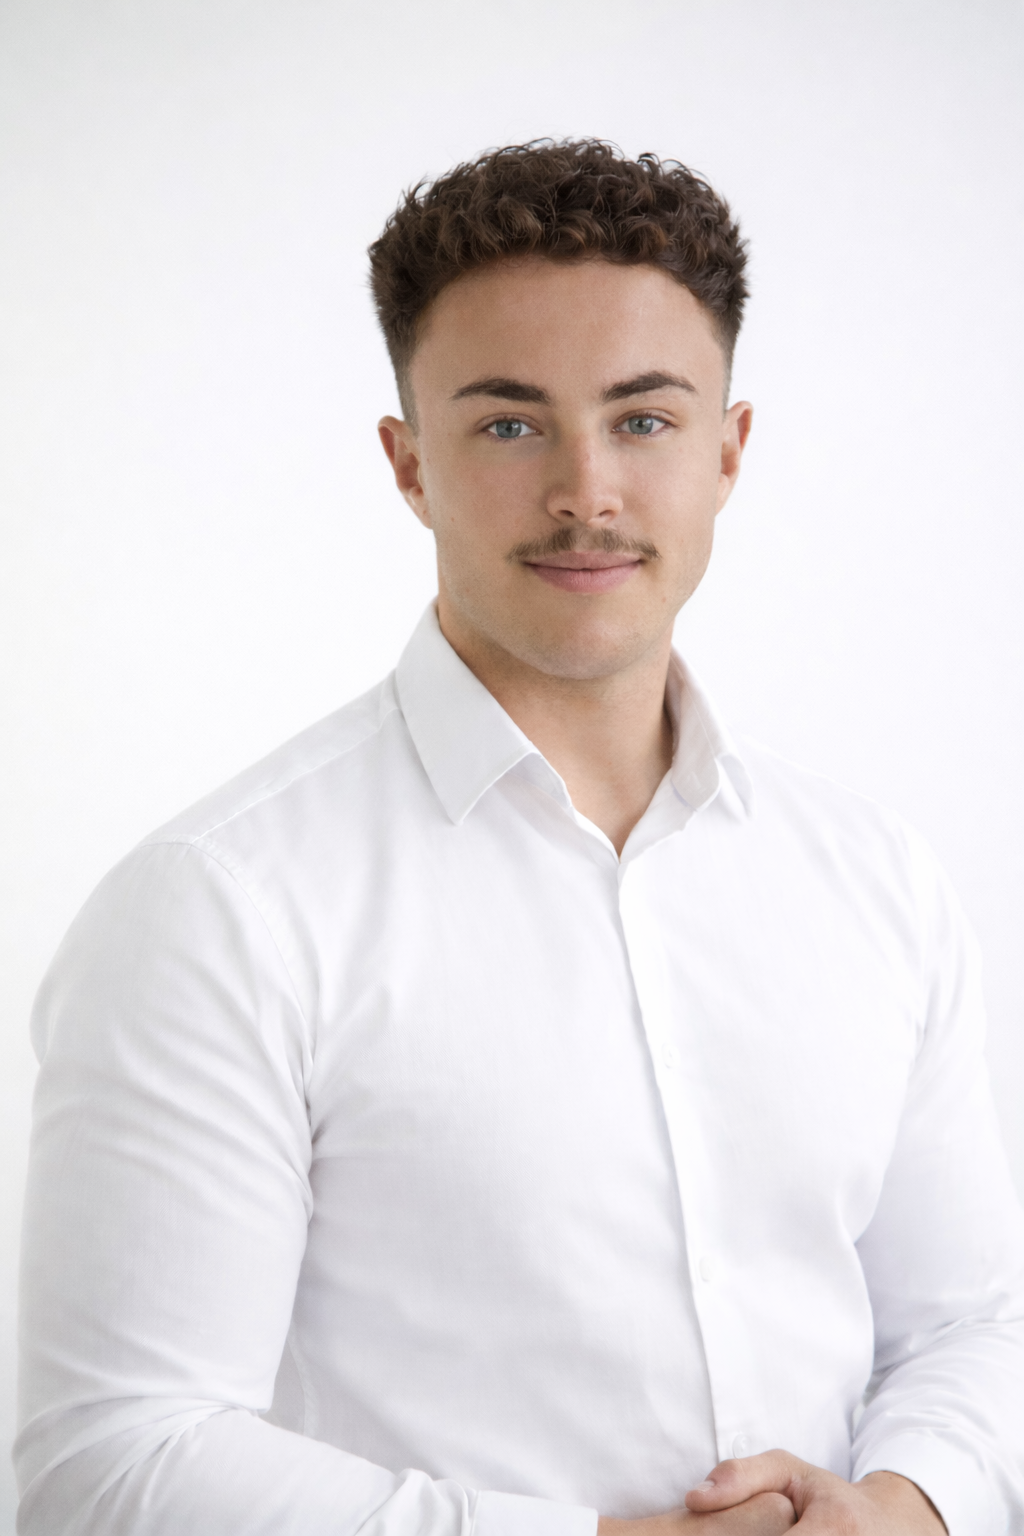
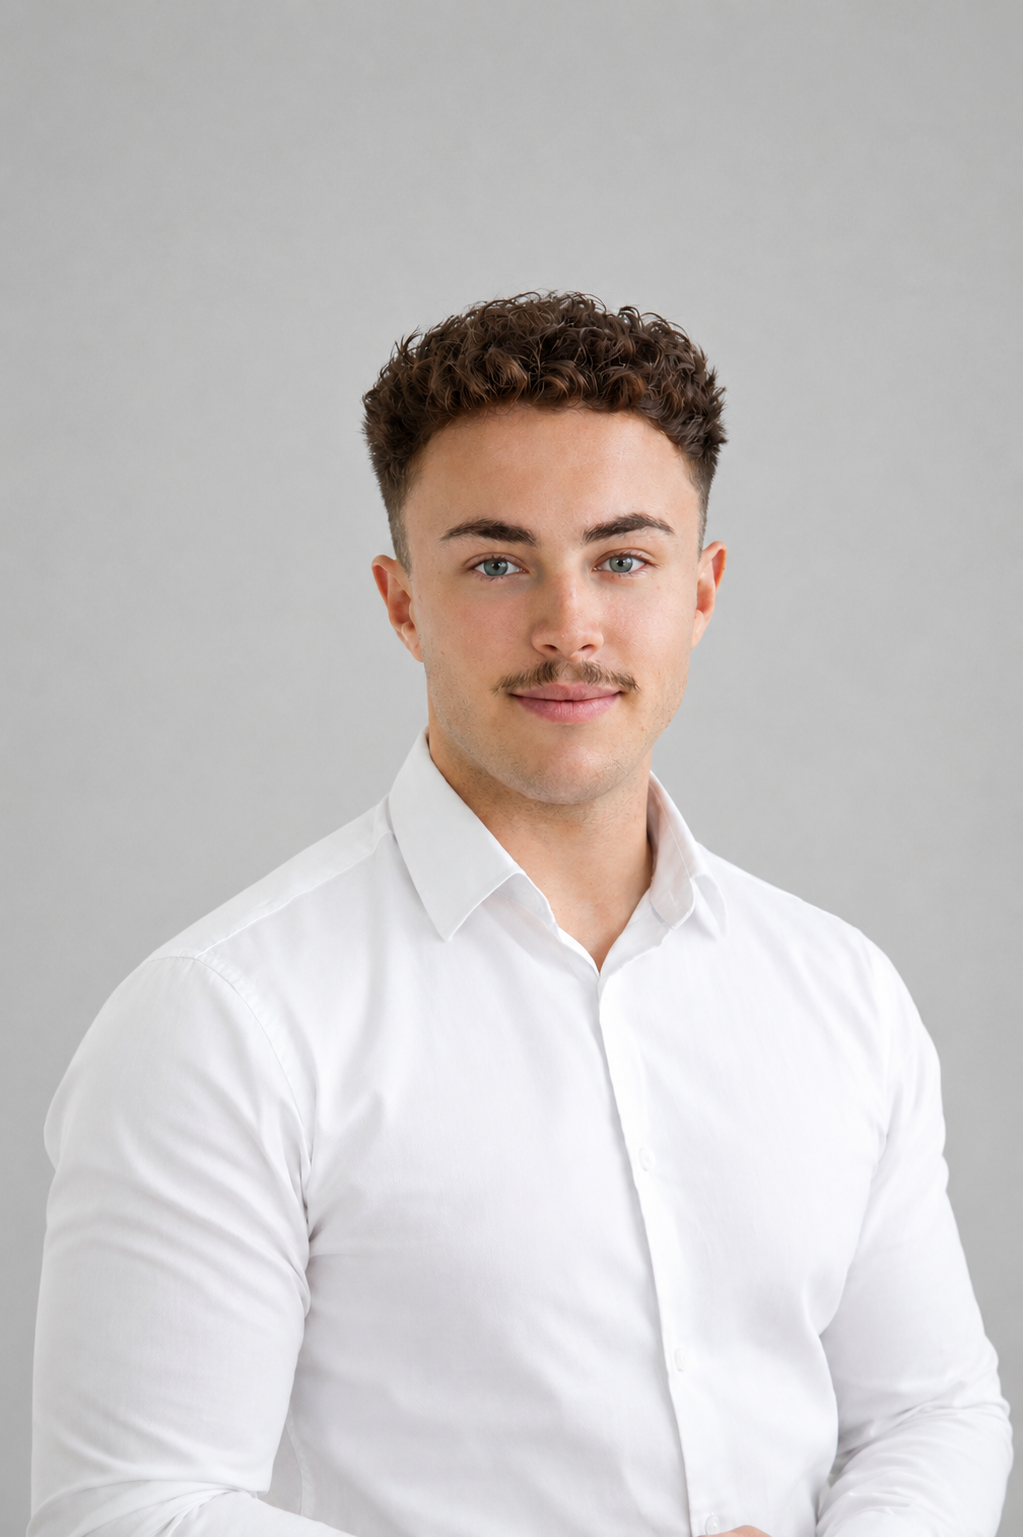
Update all staff photos to real images
Added kebab-case copies of all 9 staff photos from public/staff/.
Updated lib/data.ts to use local /staff/*.png paths for every team
member, replacing all remaining Unsplash placeholders.

Members updated: Paul, Adam, Mark, Samantha, Lilly, Tahlia, Kellie, Vicki
(Jye and previously updated members also refreshed to latest files)

Note: Zoe Porritt photo still pending — keeping placeholder for now.

diff --git a/lib/data.ts b/lib/data.ts
@@ -2709,21 +2709,21 @@ export const team: TeamMember[] = [
     role: "Managing Director",
     phone: "0415 112 702",
     email: "paul@spinellire.com",
-    image: "https://images.unsplash.com/photo-1560250097-0b93528c311a?w=400&q=80",
+    image: "/staff/paul-spinelli.png",
   },
   {
     name: "Adam Spinelli",
     role: "Sales Director",
     phone: "0447 771 445",
     email: "adam@spinellire.com",
-    image: "https://images.unsplash.com/photo-1472099645785-5658abf4ff4e?w=400&q=80",
+    image: "/staff/adam-spinelli.png",
   },
   {
     name: "Mark Spinelli",
     role: "Sales Director",
     phone: "0401 385 662",
     email: "mark@spinellire.com",
-    image: "https://images.unsplash.com/photo-1507003211169-0a1dd7228f2d?w=400&q=80",
+    image: "/staff/mark-spinelli.png",
   },
   {
     name: "Zoe Porritt",
@@ -2737,7 +2737,7 @@ export const team: TeamMember[] = [
     role: "Property Manager",
     phone: "0456 937 843",
     email: "samantha@spinellire.com",
-    image: "/staff/samantha-foy.jpg",
+    image: "/staff/samantha-foy.png",
   },
   {
     name: "Jye Sanjurjo",
@@ -2751,28 +2751,28 @@ export const team: TeamMember[] = [
     role: "Property Officer",
     phone: "0419 233 657",
     email: "lilly@spinellire.com",
-    image: "https://images.unsplash.com/photo-1508214751196-bcfd4ca60f91?w=400&q=80",
+    image: "/staff/lilly-ashton.png",
   },
   {
     name: "Tahlia Spinelli",
     role: "Property Officer",
     phone: "0458 659 772",
     email: "tahlia@spinellire.com",
-    image: "/staff/tahlia-spinelli.jpg",
+    image: "/staff/tahlia-spinelli.png",
   },
   {
     name: "Kellie Spinelli",
     role: "Accounts Manager",
     phone: "02 4296 0047",
     email: "accounts@spinellire.com",
-    image: "/staff/kellie-spinelli.jpg",
+    image: "/staff/kellie-spinelli.png",
   },
   {
     name: "Vicki Taddeo",
     role: "Accounts Manager",
     phone: "02 4296 0047",
     email: "accounts@spinellire.com",
-    image: "https://images.unsplash.com/photo-1438761681033-6461ffad8d80?w=400&q=80",
+    image: "/staff/vicki-taddeo.png",
   },
 ];
 
